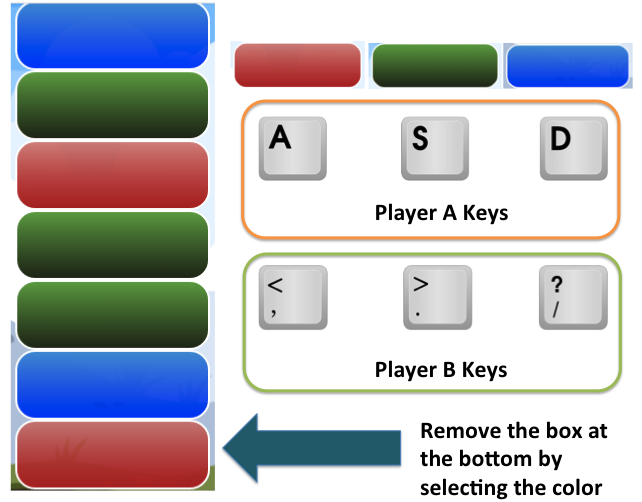
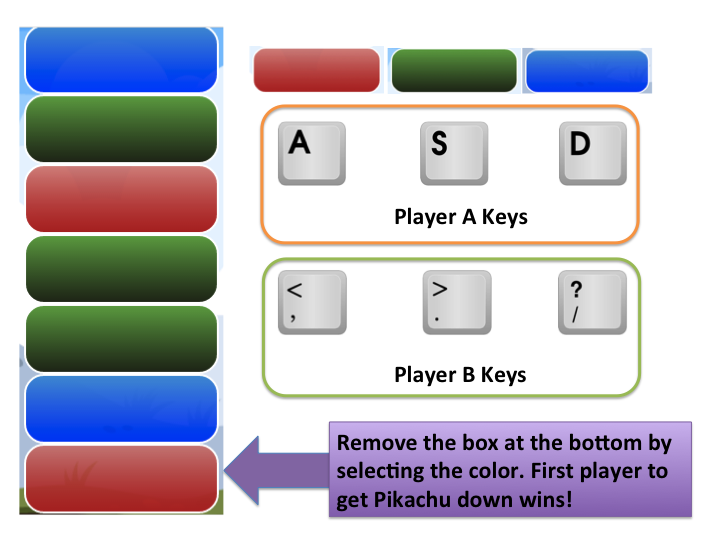
With Pikachu in instructions

diff --git a/index.html b/index.html
@@ -90,7 +90,8 @@
         </div>
 
         <div class="modal-body">
-          <img class="img-responsive-height center-block" src="images/instructions.png"  alt="Image">
+          <img class="img-responsive-height pull-right" src="images/PikachuLeft2.png"  alt="Image">
+          <img class="img-responsive-height pull-left" src="images/instructions.png"  alt="Image">
         </div>
 
         <div class="modal-footer text-info">
